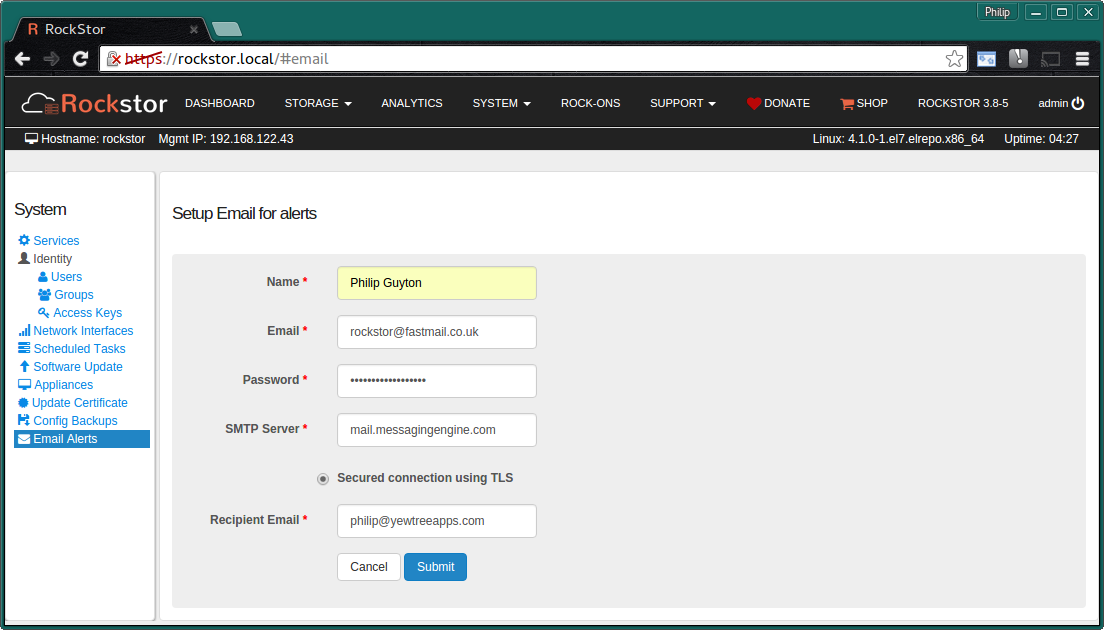
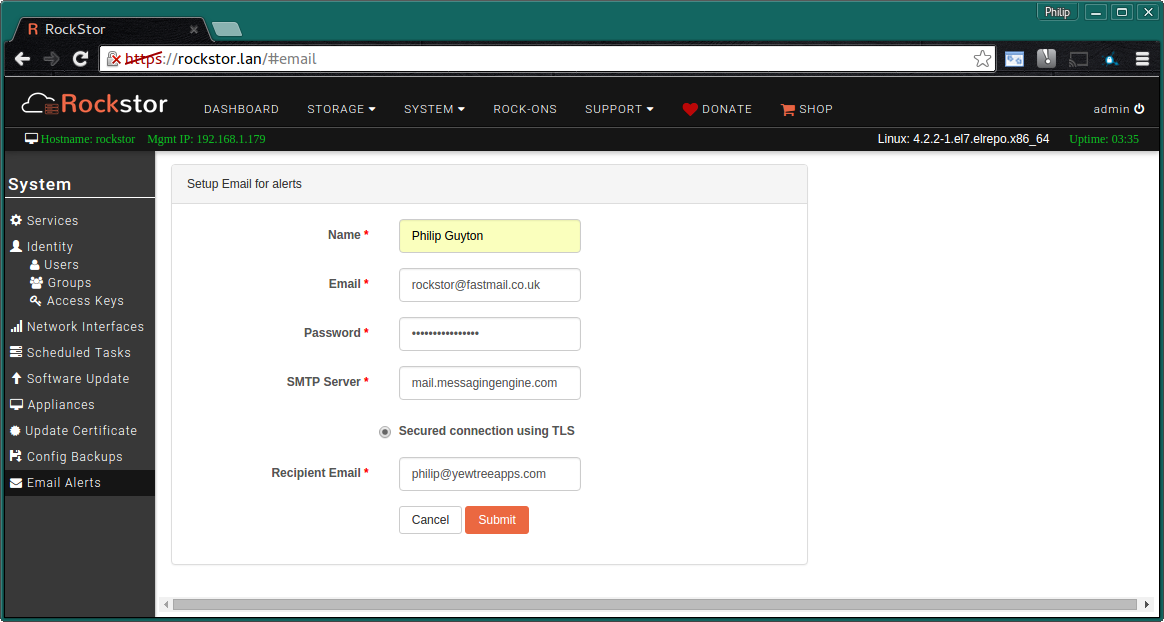
Update email pics and remove image scaling #93
Also correct text for changes in button text

Changed region(s): [[0.0, 0.0, 1.0, 1.0], [0.8623, 0.0, 0.9855, 0.0305], [0.1848, 0.672, 0.2772, 0.7026]]

diff --git a/email_setup.rst b/email_setup.rst
@@ -17,8 +17,9 @@ Initial Email Setup
 Navigate to the **Email Alerts** section of the **System** page:-
 
 ..  image:: email_init.png
+    :align: center
 
-Press the **Setup E-Mail for alerts** button to begin.
+Press the **Add an E-Mail account** button to begin.
 
 Complete the following required fields
 
@@ -30,7 +31,6 @@ Complete the following required fields
 * **Recipient email** who is to receive the notification emails from Rockstor
 
 ..  image:: email_config.png
-    :scale: 80%
     :align: center
 
 **Submit** button when done
@@ -47,7 +47,6 @@ this configuration might be tested.
 **Email Alerts** section of the **System** page with existing configuration.
 
 ..  image:: email_done.png
-    :scale: 80%
     :align: center
 
 **Note the Bin icon** in case anything is incorrect or needs replacing.
